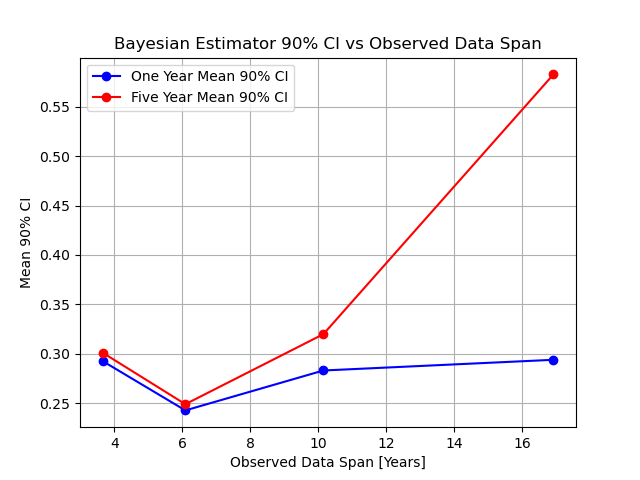
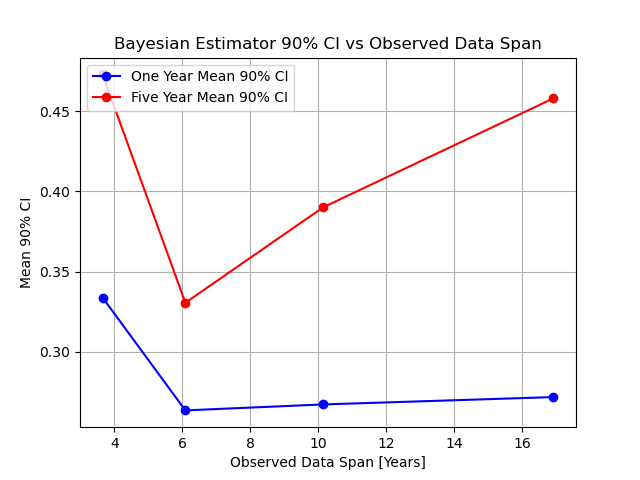
Convert input tail parameter to the innovations distribution in the Bayesian model.

diff --git a/ARIMA/examples/bayesian.py b/ARIMA/examples/bayesian.py
@@ -17,7 +17,8 @@ from ARIMA.examples.utils import load_data, plots_dir, timeit, moving_sum
 from ARIMA.examples import __name__ as __examples__name__
 from torch.distributions.transforms import ExpTransform, AffineTransform
 
-def create_model(obs_idx, num_predictions, observations, model_args=(3, 0, 1, 0, 1, 2, 12)):
+def create_model(obs_idx, num_predictions, observations,
+                 model_args=(3, 0, 1, 0, 1, 2, 12), model_kwargs=dict(i_tail_type='full')):
     # Create model with non-overlapping observed and predicted sample indices.
     predict_idx = [*range(max(obs_idx) + 1 + num_predictions)]
     predict_idx = [idx for idx in predict_idx if idx not in obs_idx]
@@ -25,7 +26,7 @@ def create_model(obs_idx, num_predictions, observations, model_args=(3, 0, 1, 0,
     mean_log = observations.log().mean()
     std_log = observations.log().std()
     output_transforms = [AffineTransform(loc=mean_log, scale=std_log), ExpTransform()]
-    return BayesianARIMA(*model_args,
+    return BayesianARIMA(*model_args, **model_kwargs,
                          obs_idx=obs_idx, predict_idx=predict_idx,
                          output_transforms=output_transforms)
 

diff --git a/ARIMA/BayesianTimeSeries.py b/ARIMA/BayesianTimeSeries.py
@@ -10,7 +10,13 @@ ARIMA = PyroModule[ARIMA]
 VARIMA = PyroModule[VARIMA]
 
 def BayesianARIMA(*args, obs_idx, predict_idx, innovations=NormalInnovations, **kwargs):
-    return BayesianTimeSeries(ARIMA(*args, **kwargs), innovations(), obs_idx, predict_idx)
+    module = BayesianTimeSeries(ARIMA(*args, **kwargs), innovations(), obs_idx, predict_idx)
+    if isinstance(module.model.i_tail, pt.nn.Parameter):
+        # Convert input tail parameter to the innovations distribution
+        tail_len = module.model.i_tail.shape[-1]
+        delattr(module.model, 'i_tail')
+        module.model.i_tail = PyroSample(lambda self: self.innovations_dist([*range(-tail_len, 0)]))
+    return module
 
 def BayesianVARIMA(*args, n, obs_idx, predict_idx, innovations=MultivariateNormalInnovations, **kwargs):
     '''
